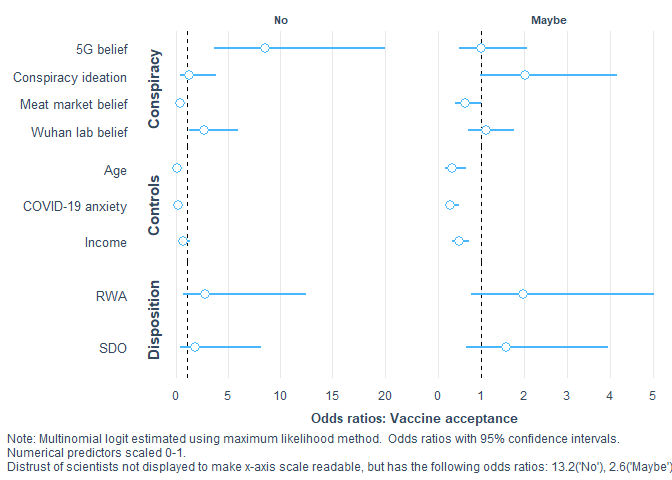
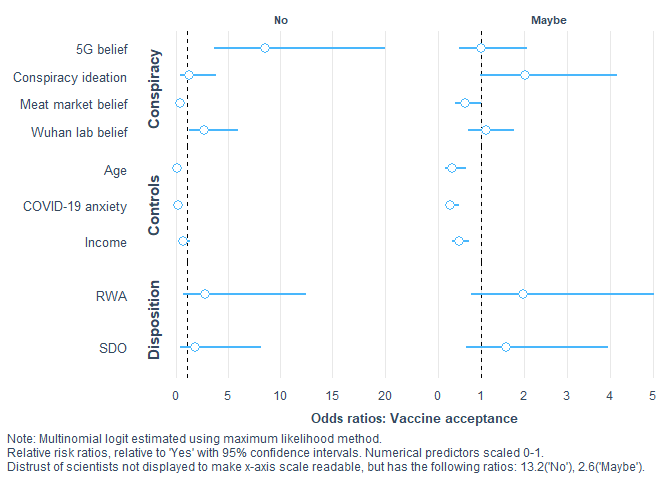
Made it relative risk ratios not odds ratios

Changed region(s): [[0.0, 0.9062, 1.0, 1.0]]

diff --git a/covid_conspiracies_markdown3.md b/covid_conspiracies_markdown3.md
@@ -2329,7 +2329,7 @@ rbind(
 ``` r
 tidies <- tidy(vax_full)
 
-#presenting odds ratios for vaccine reluctance
+#presenting relative risk ratios for vaccine reluctance
 tidies %>% 
   mutate(
     odds_ratio = exp(estimate),
@@ -2379,7 +2379,7 @@ tidies %>%
         panel.spacing = unit(0,"cm")) +
   labs(
     x = "Odds ratios: Vaccine acceptance",
-    caption = "Note: Multinomial logit estimated using maximum likelihood method.  Odds ratios with 95% confidence intervals.\nNumerical predictors scaled 0-1.\nDistrust of scientists not displayed to make x-axis scale readable, but has the following odds ratios: 13.2('No'), 2.6('Maybe')."
+    caption = "Note: Multinomial logit estimated using maximum likelihood method.\nRelative risk ratios, relative to 'Yes' with 95% confidence intervals. Numerical predictors scaled 0-1.\nDistrust of scientists not displayed to make x-axis scale readable, but has the following ratios: 13.2('No'), 2.6('Maybe')."
   )
 ```
 
